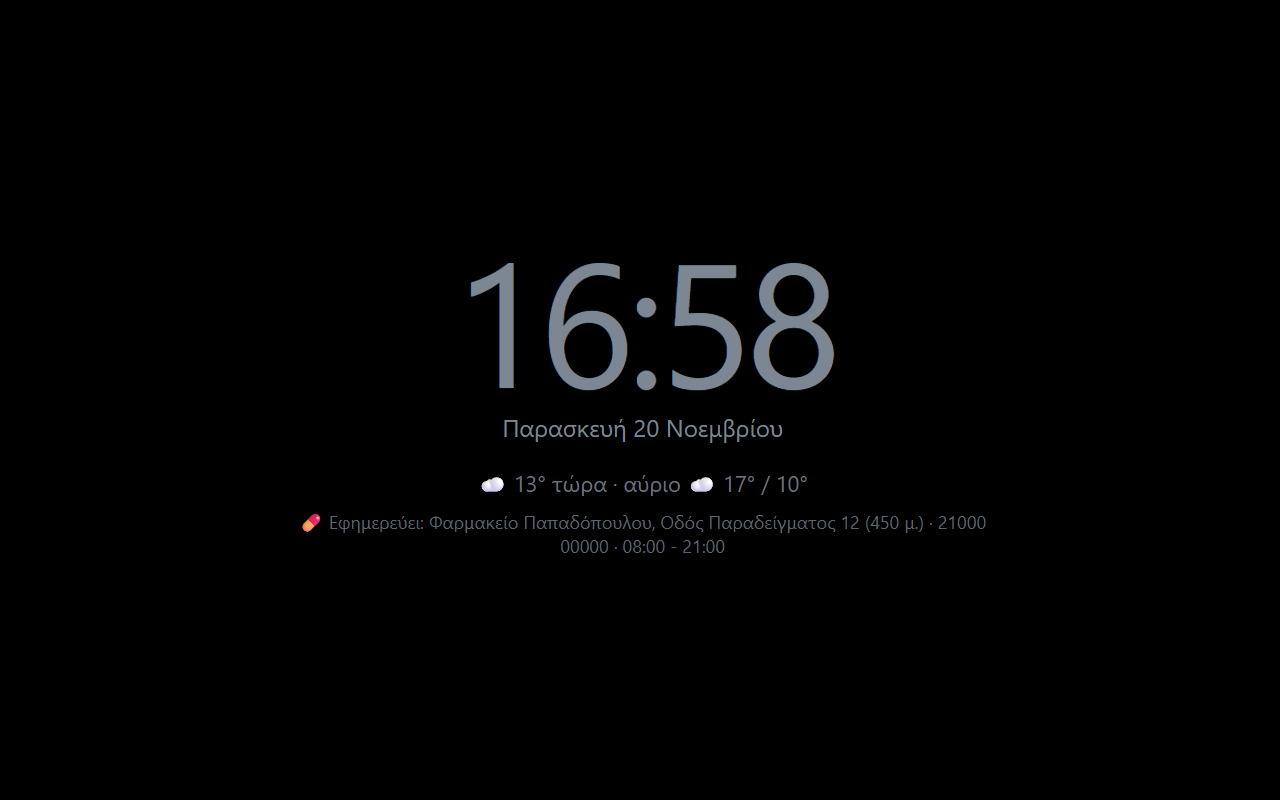
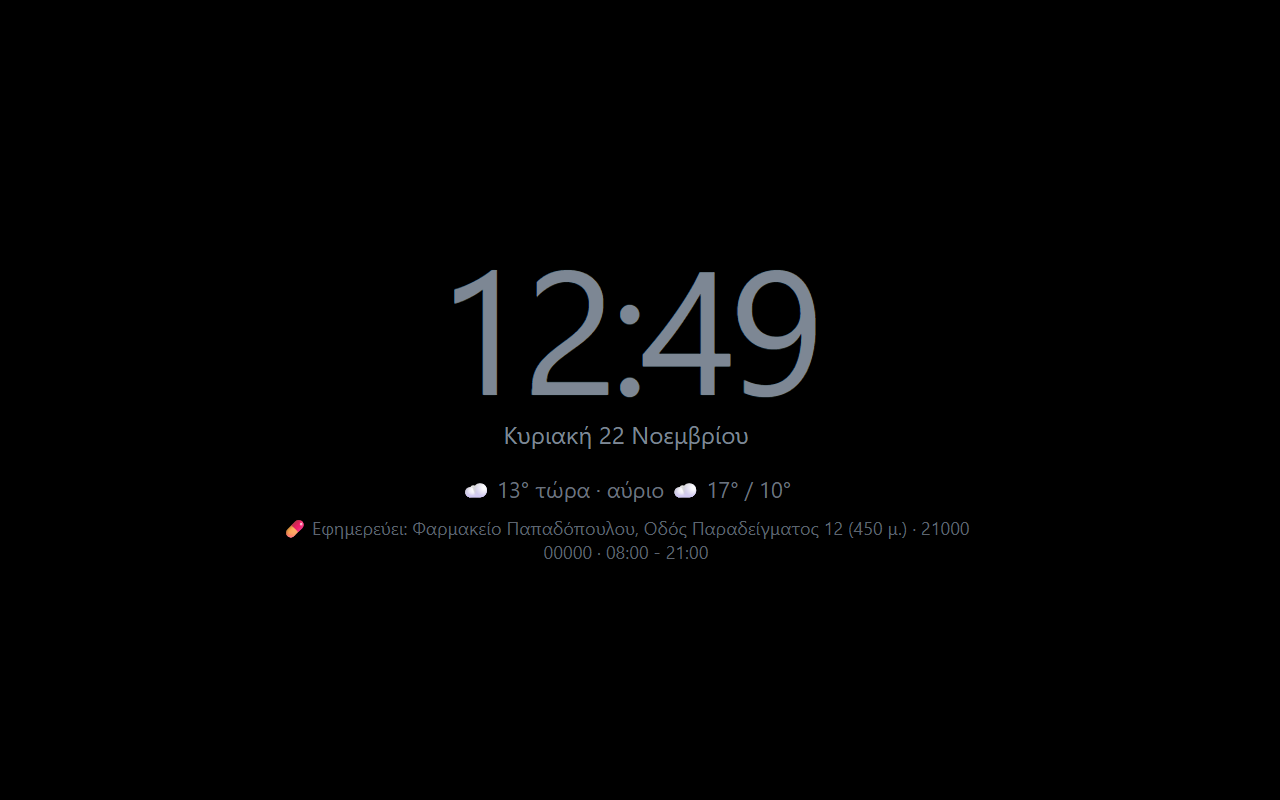
Remove old wallpaper sync, refresh README screenshots
- Photos now come from iCloud on the tablet, so the PC-side wallpaper
  sync (dashboard-photos-sync.ps1 and its .bat launcher) is gone.
- New README screenshots: photo frame, frame with commute time, light
  and dark dashboard, outdoor screen. All taken with ?demo=1 and drawn
  sample photos, without any personal config.

Changed region(s): [[0.3438, 0.3125, 0.6562, 0.5], [0.2188, 0.5938, 0.7812, 0.7188], [0.375, 0.5312, 0.625, 0.5625]]

diff --git a/README.md b/README.md
@@ -4,18 +4,22 @@
 
 Φτιάχτηκε για Huawei MediaPad T3 10 (Android 8) σε οριζόντια θέση, 1280x800. Δουλεύει σε οποιοδήποτε tablet με WebView από Chrome 100 και μετά.
 
-![Κύρια οθόνη](docs/screenshots/main.png)
+![Κορνίζα](docs/screenshots/frame.png)
 
 ## Οθόνες
 
 | | |
 | --- | --- |
+| ![Κορνίζα με χρόνο διαδρομής](docs/screenshots/frame-traffic.png) | ![Κύρια οθόνη](docs/screenshots/main.png) |
+| **Κορνίζα:** όλη μέρα. Από πάνω, μόνο όταν χρειάζεται: χρόνος διαδρομής, βροχή, σεισμός | **Ένα άγγιγμα:** το dashboard, φωτεινό τη μέρα |
+| ![Σκούρο θέμα](docs/screenshots/dark.png) | ![Έξω](docs/screenshots/screen4.png) |
+| **Μετά τη δύση:** σκούρο θέμα | **Οθόνη 4:** πότισμα, τρέξιμο, αεροπλάνα, σεισμοί |
 | ![Φαρμακεία και αέρας](docs/screenshots/screen2.png) | ![Ημερολόγιο μήνα](docs/screenshots/screen3.png) |
-| **Σύρσιμο αριστερά:** εφημερεύοντα φαρμακεία και ποιότητα αέρα | **Ξανά αριστερά:** ημερολόγιο μήνα και τα επόμενα γεγονότα |
+| **Σύρσιμο αριστερά:** εφημερεύοντα φαρμακεία, ποιότητα αέρα και κατάσταση πηγών | **Ξανά αριστερά:** ημερολόγιο μήνα και τα επόμενα γεγονότα |
 | ![Πρωινή λειτουργία](docs/screenshots/morning.png) | ![Νύχτα](docs/screenshots/night.png) |
 | **Πρωί (καθημερινές 06:30 έως 09:30):** μεγάλα τα λεωφορεία, και Δευτέρα έως Τετάρτη ο χρόνος διαδρομής | **Νύχτα:** μόνο ρολόι, καιρός και φαρμακείο που εφημερεύει |
 
-Τα screenshots έχουν δοκιμαστικά δεδομένα.
+Τα screenshots έχουν δοκιμαστικά δεδομένα (`?demo=1`) και ζωγραφιστές φωτογραφίες.
 
 ## Τι κάνει
 
